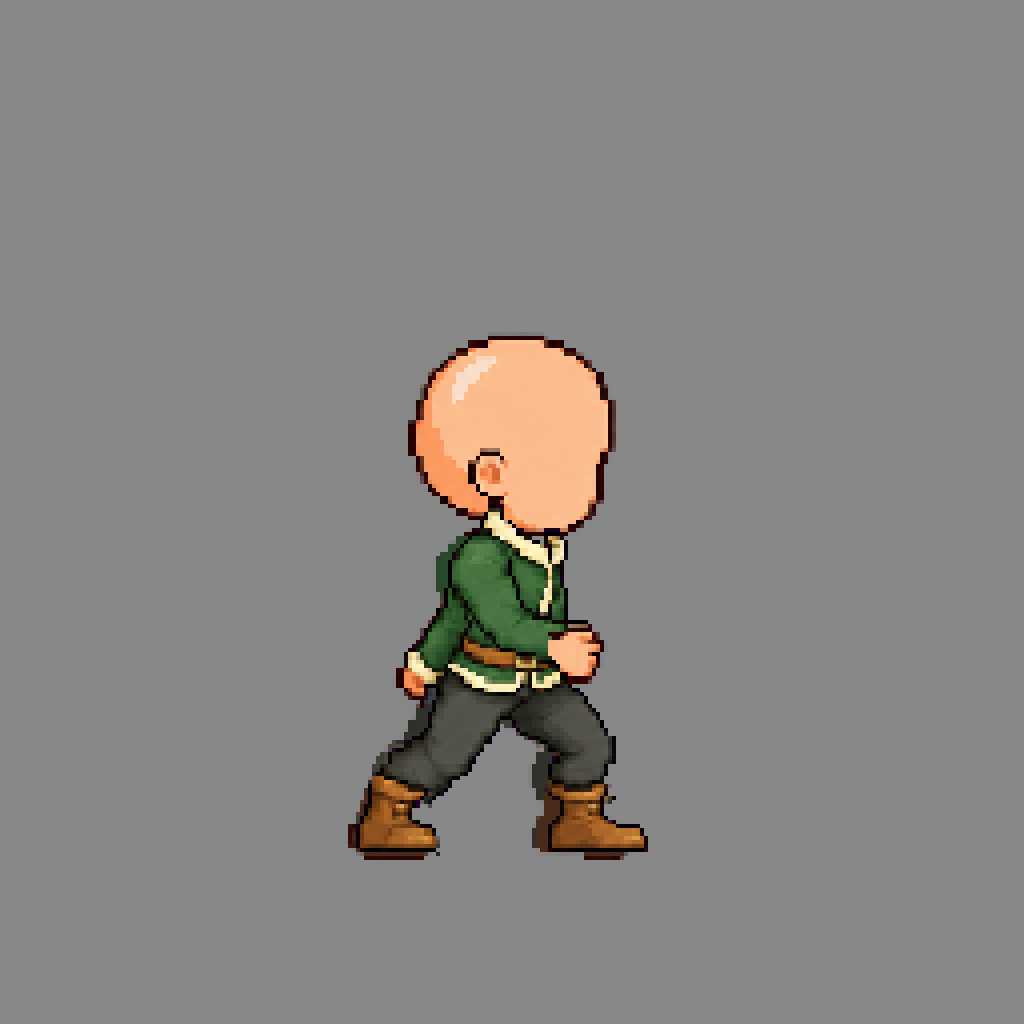
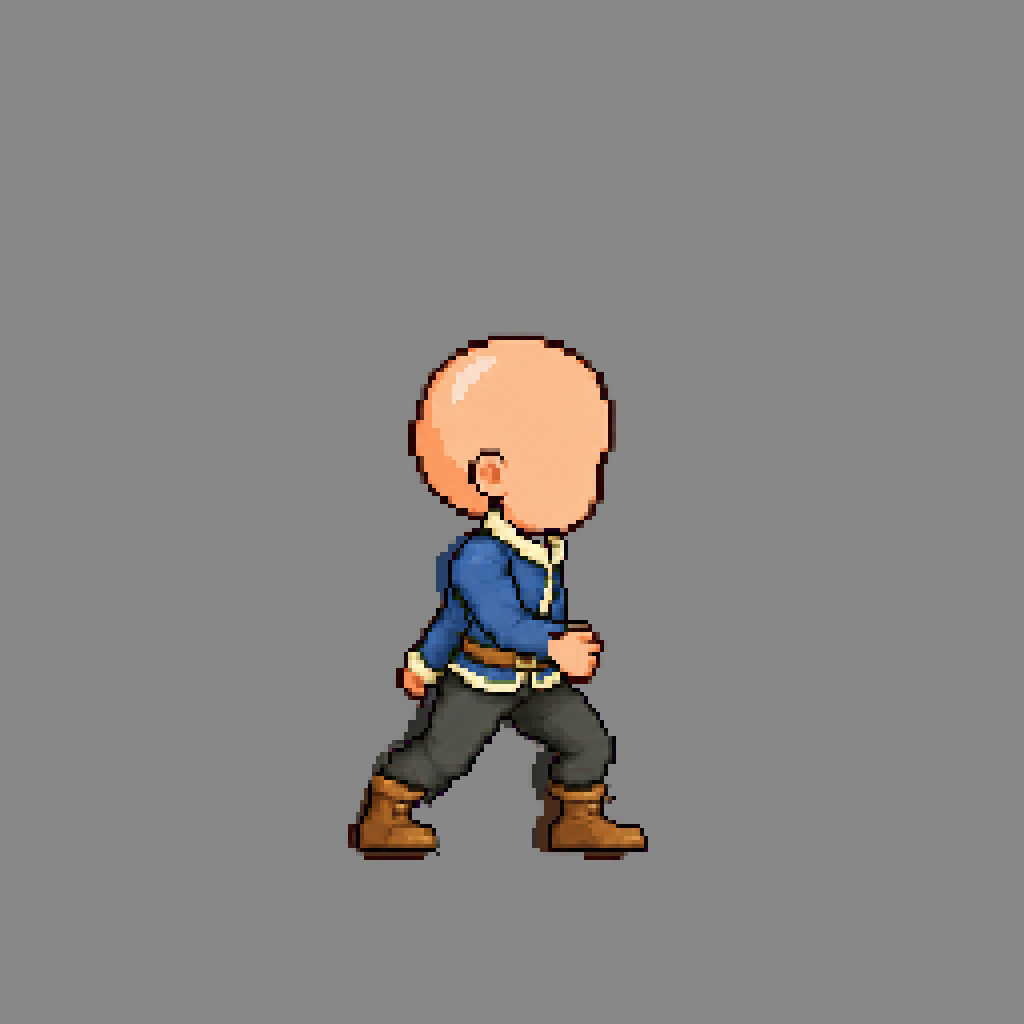
Polish build34 battle character, grounding, and camera

Changed region(s): [[0.4062, 0.5, 0.5625, 0.6875]]

diff --git a/Sources/Game/MeadowBattlePreviewView.swift b/Sources/Game/MeadowBattlePreviewView.swift
@@ -337,10 +337,10 @@ final class MeadowBattleLandscapeView: UIView {
             .init(point: CGPoint(x: 146, y: 214), radius: 12)
         ])
         enemyShadow = MeadowBattleGroundingView(image: enemyImage, soleY: 241, contacts: [
-            .init(point: CGPoint(x: 83, y: 240), radius: 19),
-            .init(point: CGPoint(x: 175, y: 240), radius: 19),
-            .init(point: CGPoint(x: 236, y: 235), radius: 17),
-            .init(point: CGPoint(x: 320, y: 240), radius: 20)
+            .init(point: CGPoint(x: 84, y: 240), radius: 16),
+            .init(point: CGPoint(x: 172, y: 240), radius: 16),
+            .init(point: CGPoint(x: 230, y: 239), radius: 16),
+            .init(point: CGPoint(x: 314, y: 240), radius: 17)
         ])
         super.init(frame: frame)
         clipsToBounds = true

diff --git a/docs/P1_CHARACTER_REVIEW.md b/docs/P1_CHARACTER_REVIEW.md
@@ -4,9 +4,9 @@
 
 ## 当前审核
 
-2026-10-20 新增 [build33 侧向待机运行候选](../Art/Parts/P1-Battle/right-idle-v1/README.md)：沿用已认可r2完整人体，独立叠放绿色衣物／棕色短发／蓝眼五官／短剑，脚底和画布固定。已通过局部自审与iPad专项验证，三态实图见[build33运行证据](../Media/Build33/README.md)；新部件和装配尚无用户美术认可。它只有一张静态待机，不代表下文的隐藏解剖、侧步态、完整换装或动作动画问题已完成。
+2026-10-20 的 [build33 侧向待机运行候选](../Art/Parts/P1-Battle/right-idle-v1/README.md)是历史包：沿用已认可r2完整人体，独立叠放衣物／棕色短发／蓝眼五官／短剑，脚底和画布固定。它只有一张静态待机，不代表下文的隐藏解剖、侧步态、完整换装或动作动画问题已完成。
 
-本次回审聚焦 face-blue v3：眼睛、眉、鼻和闭口向脸内收，避免贴在侧脸轮廓上；256×256注册和已认可r2身体、头发不变。请查看[更新后组合图](../Art/Parts/P1-Battle/right-idle-v1/review-face-v3.png)与[头部放大](../Art/Parts/P1-Battle/right-idle-v1/face-blue/review-head-detail.png)。这是素材重组预览，不是新的运行截图；v3仍待用户美术审核，尚未扩大为其他方向或动画。
+现在准备交付 [build34 战场修订候选](../Art/Parts/P1-Battle/right-idle-v1/README.md)：衣物改为 P1 蓝色识别配色，鹿灵简化为像素风并继续使用原画布与脚底范围，face-blue v4 将鼻口与侧脸边缘分开。v4 五官通过美术子审，整套外观仍待用户审核；最终 iPad 模拟器截图和 build34 IPA 待 CI 完成后补录。请查看[候选组合图](../Art/Parts/P1-Battle/right-idle-v1/review-face-v4.png)与[头部放大](../Art/Parts/P1-Battle/right-idle-v1/face-blue/review-head-detail.png)，它们是注册素材预览，不是运行截图。没有扩大到其他方向或动画。
 
 侧视待机向右中性人体 [r2](../Art/Templates/P1-Neutral/battle-side/right-idle-r2/README.md) 已获认可。用户回复“对了，继续下一步”，认可范围为单张注册后的空手侧视姿态和近侧右手方向。v1 八层静态分割仍作为历史候选保存；隐藏人体底层 [v2](../Art/Templates/P1-Neutral/battle-side/right-idle-parts-v2/README.md) 在原八层之下新增连续颈肩至骨盆皮肤核心。保持256×256共同注册，静态review与v1逐像素一致；新层暂未并入静态合成，因为现有抗锯齿切层边缘会让底层透出并改变外观。442个固定站姿补位像素仍保留；完整四肢底层与肢体移动接缝尚未通过，不能作为生产换装底模。
 

diff --git a/Art/Scenes/MeadowBattle/enemies/forest-warden-v2/README.md b/Art/Scenes/MeadowBattle/enemies/forest-warden-v2/README.md
@@ -1,7 +1,7 @@
-# Forest warden v2 · alert idle candidate
+# Forest warden v2 · pixel-art alert idle candidate
 
-The former running silhouette conflicted with a waiting combatant. This revision keeps the chestnut, leaf-green and amber design, faces left, lowers the head, and plants all four hooves. The original generated chroma-key image is retained in `source/idle-chromakey.png`; the exact prompt is beside it.
+The former running silhouette conflicted with a waiting combatant. This candidate keeps the chestnut, leaf-green and amber design, faces left, lowers the head, and plants all four hooves. It replaces the soft painterly rendering with larger, deliberate pixel clusters so the deer sits more naturally beside the low-detail battle hero. The earlier chroma-key source and this pixel-art edit are retained separately in `source/`.
 
-`process.sh` removes magenta and reduces the **entire** 1536×1024 canvas to 384×256 with nearest-neighbour sampling. There is no alpha-based crop or character-specific body transformation. This deliberately brings the source-pixel density closer to the registered 256×256 hero. Transparency and silhouette are checked before app import.
+Run `bash process.sh` from this directory to rebuild the runtime sprite. It thresholds the generated alpha to discard its soft transparent fringe, reduces the complete 1536×1024 canvas on a nearest-neighbour grid, then registers the figure inside the same 384×256 canvas so its visible alpha bounds remain `(13,9)-(344,241)` and the four-hoof ground line stays at `y=240`. It does not crop to alpha or shift individual limbs. The scene keeps its original enemy anchor and shadow caster; contact gradients are aligned to the rebuilt hoof pixels in `MeadowBattlePreviewView.swift`.
 
-This is one static art candidate, not a user-approved enemy design or an idle animation. The previous source and build32 remain in `../forest-warden-v1/`. Scene light, cast shadow and hoof contacts are independent runtime layers.
+This is one static art candidate, not a user-approved enemy design or an idle animation. The earlier sprite and build32 remain in `../forest-warden-v1/`. Scene light, cast shadow and hoof contacts are independent runtime layers; no halo or ground is baked into this sprite.

diff --git a/Art/Parts/P1-Battle/right-idle-v1/README.md b/Art/Parts/P1-Battle/right-idle-v1/README.md
@@ -2,7 +2,9 @@
 
 The approved neutral `right-idle-r2/00.png` is unchanged. This static fixture adds separate chestnut hair, blue facial features, forester clothing, and a short sword. All images use the same 256×256 canvas; the anatomical foot anchor is fixed at `(123,214)` and the reference body height is 132 px. No appearance is automatically fitted from its alpha bounds. Near and far hand layers come from the static semantic split and remain in front of the outfit and grip. `hand-foreground/` excludes a rear-leg patch incorrectly owned by the redundant far-hand copy; the complete approved body underneath is unchanged.
 
-The face layer is now at [candidate v3](face-blue/README.md), with its eye and profile features moved inward after the build33 runtime preview made them hard to read. The [face review](review-face-v3.png) is a registered asset recomposition, not an iPad capture; native runtime readability still needs screenshot review.
+The face layer is now at [candidate v4](face-blue/README.md). After the build33 preview, the eye and brow were moved inward, then the nose and mouth were separately inset to keep them clear of the profile edge. The [v4 review](review-face-v4.png) and [head detail](face-blue/review-head-detail.png) are registered asset recompositions, not iPad captures; the updated runtime still needs screenshot review.
+
+The clothing keeps the same full-canvas alpha and registration while its green tunic palette shifts to P1's blue signature. The forest warden is now a crisp pixel-art candidate on the original 384×256 bounds, with its four contact shadows aligned to the planted hoof pixels. Neither appearance has user art approval.
 
 The app reads `MeadowBattleHeroConfiguration.dataset/configuration.json` and stacks the named images in order. Adding an appearance does not introduce a conditional branch or replace the neutral body. `runtime-sources.json` selects source PNGs and `runtime-configuration.json` defines the pose and display order. `import-runtime.py` copies those authored PNGs unchanged and records hashes; adding assets needs image/manifest changes only, without importer or engine branches. Each part directory retains editable art or generated original, registration notes and limitations.
 

diff --git a/Art/Parts/P1-Battle/right-idle-v1/outfit-forester/README.md b/Art/Parts/P1-Battle/right-idle-v1/outfit-forester/README.md
@@ -1,8 +1,8 @@
-# Forester wardrobe candidate
+# P1 blue wardrobe colorway candidate
 
-`wardrobe.png` is a pose-locked, full-canvas 256×256 clothing layer for the approved right-idle r2 body. This is an unreviewed single-frame candidate.
+`wardrobe.png` is the same pose-locked, full-canvas 256×256 clothing layer for the approved right-idle r2 body, recolored to match the blue signature of P1 on the map. The pixel geometry, alpha silhouette, gold trim, charcoal trousers, brown boots, and sole registration are unchanged. This remains an unreviewed single-frame candidate.
 
-Run `./build.sh` from any directory to reproduce it. The script point-resizes the retained 1254×1254 `source/registered-chromakey.png` to the full 256×256 canvas, removes the magenta key, rebuilds the boot selection with an explicit luminance-to-alpha conversion, and adds editable SVG underlap clipped to the approved body's alpha silhouette. It preserves the source image and does not alter or conceal the body layer.
+Run `./build.sh` from this directory to reproduce it. The script point-resizes the retained 1254×1254 `source/registered-chromakey.png` to the full 256×256 canvas, removes the magenta key, rebuilds the boot selection with an explicit luminance-to-alpha conversion, and adds editable SVG underlap clipped to the approved body's alpha silhouette. It then shifts only the green tunic palette to a brighter, more saturated P1 blue in HSL while preserving the source alpha channel and all non-green pixels. It does not alter or conceal the body layer.
 
 Registration is fixed to the approved body canvas: jacket collar starts at y=126; the left trouser/boot zone is x=87..113, y=170..213; the right trouser/boot zone is x=122..165, y=170..213. The sole baseline is y=214, with the final output clipped to rows 0..213. Boots are translated upward by four source pixels while the collar and rest of the garment retain their registered coordinates. Foot underlap uses deep brown `#4a2b1b` inside the body-alpha foot masks and is layered above trouser underlap, then below the boot texture. SVG repair shapes and the boot selection remain editable in `source/`.
 

diff --git a/Art/Parts/P1-Battle/right-idle-v1/face-blue/README.md b/Art/Parts/P1-Battle/right-idle-v1/face-blue/README.md
@@ -1,5 +1,5 @@
-# Blue eye and right-facing features · battle idle candidate v3
+# Blue eye and right-facing features · battle idle candidate v4
 
-This revision moves the eye, brow, nose and mouth several pixels inward from the profile edge, strengthens the blue eye against the skin, and keeps the mouth closed. `face.svg` is the editable integer-pixel source and `face.png` is the transparent 256×256 feature-only export. It contains no skin, ear, or hair pixels.
+This revision moves the eye and brow inward, then separately moves the nose and mouth 2 px from the profile edge. A short skin-tone highlight and darker lower pixel make the right-facing nose read as a small projection; the closed mouth is a separate dark line. `face.svg` is the editable integer-pixel source and `face.png` is the transparent 256×256 feature-only export. It contains no ear or hair pixels.
 
-The exact alpha bounding box is `[140, 105, 152, 120]` in `(left, top, right-exclusive, bottom-exclusive)` convention. See the [r2 overlay with separate hair](review-r2-with-hair.png) and [enlarged head detail](review-head-detail.png). This is still one unapproved static candidate, with no other directions or production compatibility.
+The exact alpha bounding box is `[138, 105, 150, 120]` in `(left, top, right-exclusive, bottom-exclusive)` convention. See the [r2 overlay with separate hair](review-r2-with-hair.png) and [enlarged head detail](review-head-detail.png). A visual review of v4 found the eye, brow, nose and mouth distinct from each other and the profile at both enlarged and 256×256 size. This remains one unapproved static candidate, with no other directions or production compatibility.
